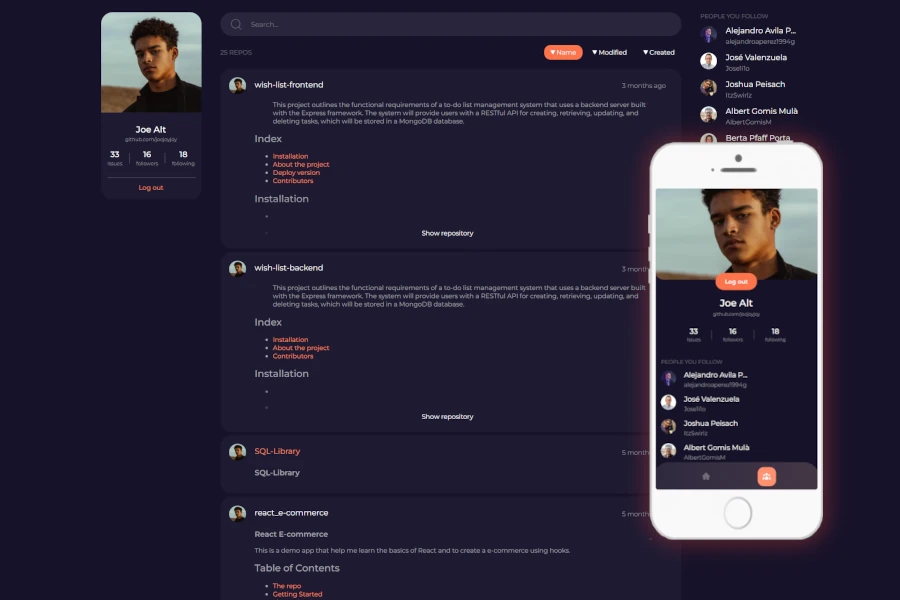
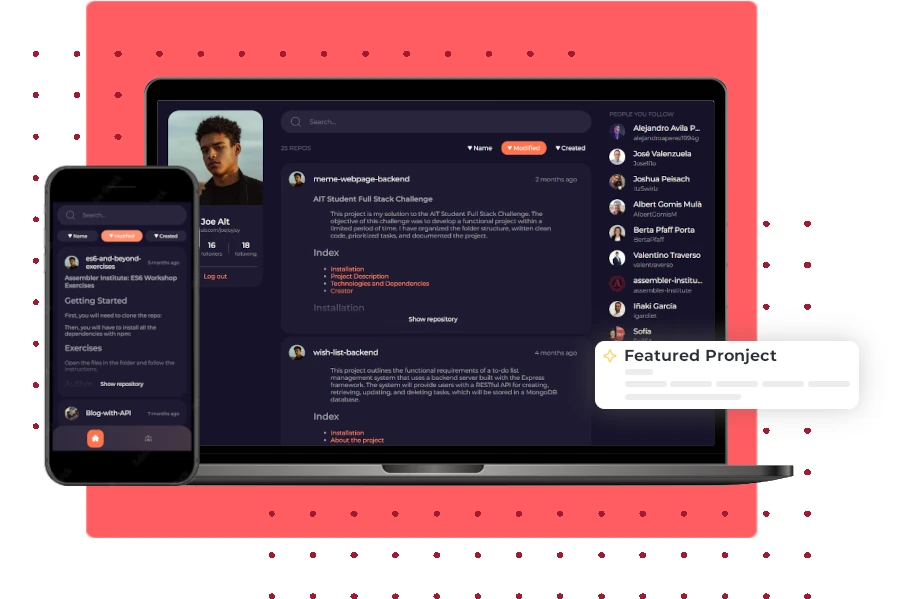
Feat: improved case study images

diff --git a/src/assets/JSON/Work.jsx b/src/assets/JSON/Work.jsx
@@ -34,7 +34,7 @@ export const WorkCases = () => {
       github: "https://github.com/Lucydct22/audity_react_app",
       link: "https://audity.dtpf.es",
       description: `${t("workCases_description_01")}`,
-      image: PreviewLeft,
+      image: case01img,
       tools: [
         react, ts, sass, node, api, mongo
       ]
@@ -45,7 +45,7 @@ export const WorkCases = () => {
       github: "https://github.com/joejoyjoy/react-github-repositories-with-search-graphql",
       link: "https://github-ultimate.netlify.app",
       description: `${t("workCases_description_02")}`,
-      image: PreviewRight,
+      image: case02img,
       tools: [
         react, ts, sass, node, oauth, api, graph, test
       ]
@@ -56,7 +56,7 @@ export const WorkCases = () => {
       github: "https://github.com/joejoyjoy/meme-webpage-frontend",
       link: "https://meme-gifs-page.netlify.app",
       description: `${t("workCases_description_03")}`,
-      image: PreviewLeft,
+      image: case03img,
       tools: [
         react, sass, node, api, mongo, spline
       ]
@@ -67,7 +67,7 @@ export const WorkCases = () => {
       github: "https://github.com/joejoyjoy/assembler-projects/tree/main/Play_With_Assembler",
       link: "https://hangman-play-the-game.netlify.app",
       description: `${t("workCases_description_04")}`,
-      image: PreviewRight,
+      image: case04img,
       tools: [
         html, css, js
       ]

diff --git a/src/views/UI/emailJSForm/EmailJSForm.jsx b/src/views/UI/emailJSForm/EmailJSForm.jsx
@@ -1,4 +1,4 @@
-import React, { useState, useEffect, useRef } from 'react';
+import React, { useState, useRef } from 'react';
 import emailjs from '@emailjs/browser';
 import Swal from 'sweetalert2';
 import { message } from 'antd';
@@ -60,22 +60,9 @@ const EmailJSForm = () => {
       });
   };
 
-  useEffect(() => {
-    (function handleFullWidthSizing() {
-      let scrollbarWidth = window.innerWidth - document.body.clientWidth
-
-      if (scrollbarWidth > 25) {
-        scrollbarWidth = 0;
-      }
-
-      document.querySelector('.emailjs-form__shape').style.maxWidth = `calc(100vw - ${scrollbarWidth}px)`
-    })()
-  }, [])
-
   return (
     <>
       <form ref={form} onSubmit={sendEmail} className="emailjs-form">
-        <h3 className="emailjs-form__title">{t("emailJSForm_title")}</h3>
         <div className="emailjs-form__wrap">
           <span className="emailjs-form__wrap--section">
             <BorderComposition style={!nameInput} />
@@ -131,9 +118,6 @@ const EmailJSForm = () => {
           </span>
           <button type="submit" className="emailjs-form__wrap--submit">{t("emailJSForm_submitBtn")}</button>
         </div>
-        <section className="emailjs-form__shape">
-          <div className="emailjs-form__shape--sewers"></div>
-        </section>
       </form>
       {contextHolder}
     </>

diff --git a/src/views/UI/emailJSForm/emailJSForm.scss b/src/views/UI/emailJSForm/emailJSForm.scss
@@ -1,21 +1,9 @@
 @import '../../../sass/';
 
 .emailjs-form {
-  display: flex;
-  flex-direction: column;
-  gap: 2.2rem;
-  position: relative;
   margin: 0 auto;
   width: 100%;
   max-width: 450px;
-
-  &__title {
-    color: $color-primary;
-    font-size: clamp(24px, 5vw, 28px);
-    text-align: center;
-    font-weight: 500;
-    margin: 0;
-  }
 
   &__wrap {
     display: flex;
@@ -97,29 +85,6 @@
     &--submit {
       @include callToActionButton();
       margin-top: 7px;
-    }
-  }
-
-  &__shape {
-    position: absolute;
-    top: calc(50% + 55px);
-    left: 50%;
-    width: calc(448px*1.5 - 2rem);
-    height: calc(448px*1.5 - 2rem);
-    overflow: hidden;
-    transform: translate(-50%, -50%);
-    z-index: -1;
-
-    &--sewers {
-      position: absolute;
-      top: 50%;
-      left: 50%;
-      width: calc(448px*1.5 - 2rem);
-      aspect-ratio: 1 / 1;
-      border-radius: 50%;
-      background: rgb(10, 25, 47);
-      background: linear-gradient(0deg, rgba(10, 25, 47, 74) 8%, rgba(100, 255, 218, 0.26) 100%);
-      transform: translate(-50%, -50%);
     }
   }
 }

diff --git a/src/views/components/recommendsSection/recommendsSection.scss b/src/views/components/recommendsSection/recommendsSection.scss
@@ -25,19 +25,8 @@
     }
 
     h2 {
-      display: grid;
-      grid-template-columns: auto 1fr;
-      align-items: center;
       margin: 0;
-      width: 120%;
       font-size: clamp(26px, 5vw, 32px);
-
-      &::after {
-        content: "";
-        height: 1px;
-        margin-left: 20px;
-        background-color: $background-color-light-blue;
-      }
     }
   }
 

diff --git a/src/views/components/contactSection/contactSection.scss b/src/views/components/contactSection/contactSection.scss
@@ -5,9 +5,9 @@
 
   &__container {
     width: 100%;
-    max-width: 600px;
+    max-width: 450px;
     margin: 0 auto;
-    margin-bottom: 75px;
+    margin-bottom: 2rem;
     text-align: center;
 
     &--header {
@@ -16,7 +16,7 @@
       font-weight: 400;
       color: $color-important;
     }
-    
+
     &--title {
       font-size: clamp(40px, 5vw, 60px);
     }

diff --git a/src/views/components/recommendsSection/RecommendsSection.jsx b/src/views/components/recommendsSection/RecommendsSection.jsx
@@ -33,10 +33,6 @@ const RecommendsSection = () => {
             swiper.navigation.init();
             swiper.navigation.update();
           }}
-          effect={'fade'}
-          fadeEffect={{
-            crossFade: true,
-          }}
           modules={[Navigation, EffectFade]}
           className="recommends-section__content--swiper"
         >

diff --git a/src/assets/locale/es.js b/src/assets/locale/es.js
@@ -59,7 +59,6 @@ const spanishTranslation = {
   /*** UI Reutilizable ***/
 
   // EMAIL JS CONTACT FORM
-  emailJSForm_title: "Envíeme un mensaje",
   emailJSForm_emptyMsg: "aquí",
   emailJSForm_submitBtn: "Enviar",
   emailJSForm_name_placeholder: "Escribe su nombre",

diff --git a/src/assets/locale/en.js b/src/assets/locale/en.js
@@ -59,7 +59,6 @@ const englishTranslation = {
   /*** Reuseable UI ***/
 
   // EMAIL JS CONTACT FORM
-  emailJSForm_title: "Send me a message",
   emailJSForm_emptyMsg: "here",
   emailJSForm_submitBtn: "Submit",
   emailJSForm_name_placeholder: "Enter your name",

diff --git a/src/views/components/desktop/experienceDSection/experienceDSection.scss b/src/views/components/desktop/experienceDSection/experienceDSection.scss
@@ -63,7 +63,7 @@
 
 .experience-section-desktop-body {
   grid-area: body;
-  min-height: 400px;
+  min-height: 290px;
 
   &__wrap {
     &--title {
